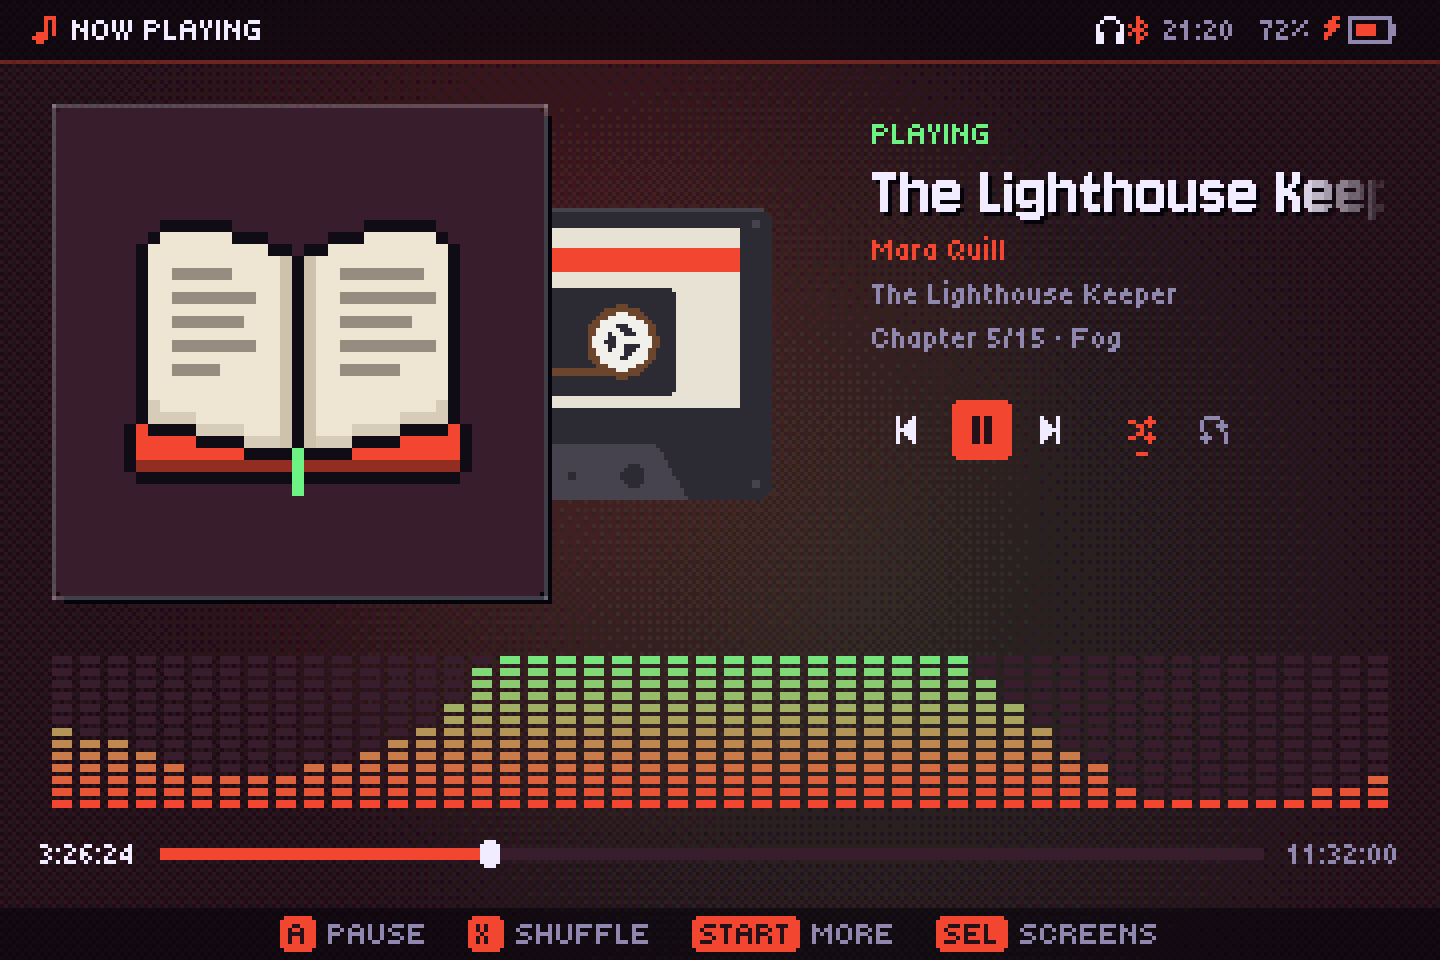
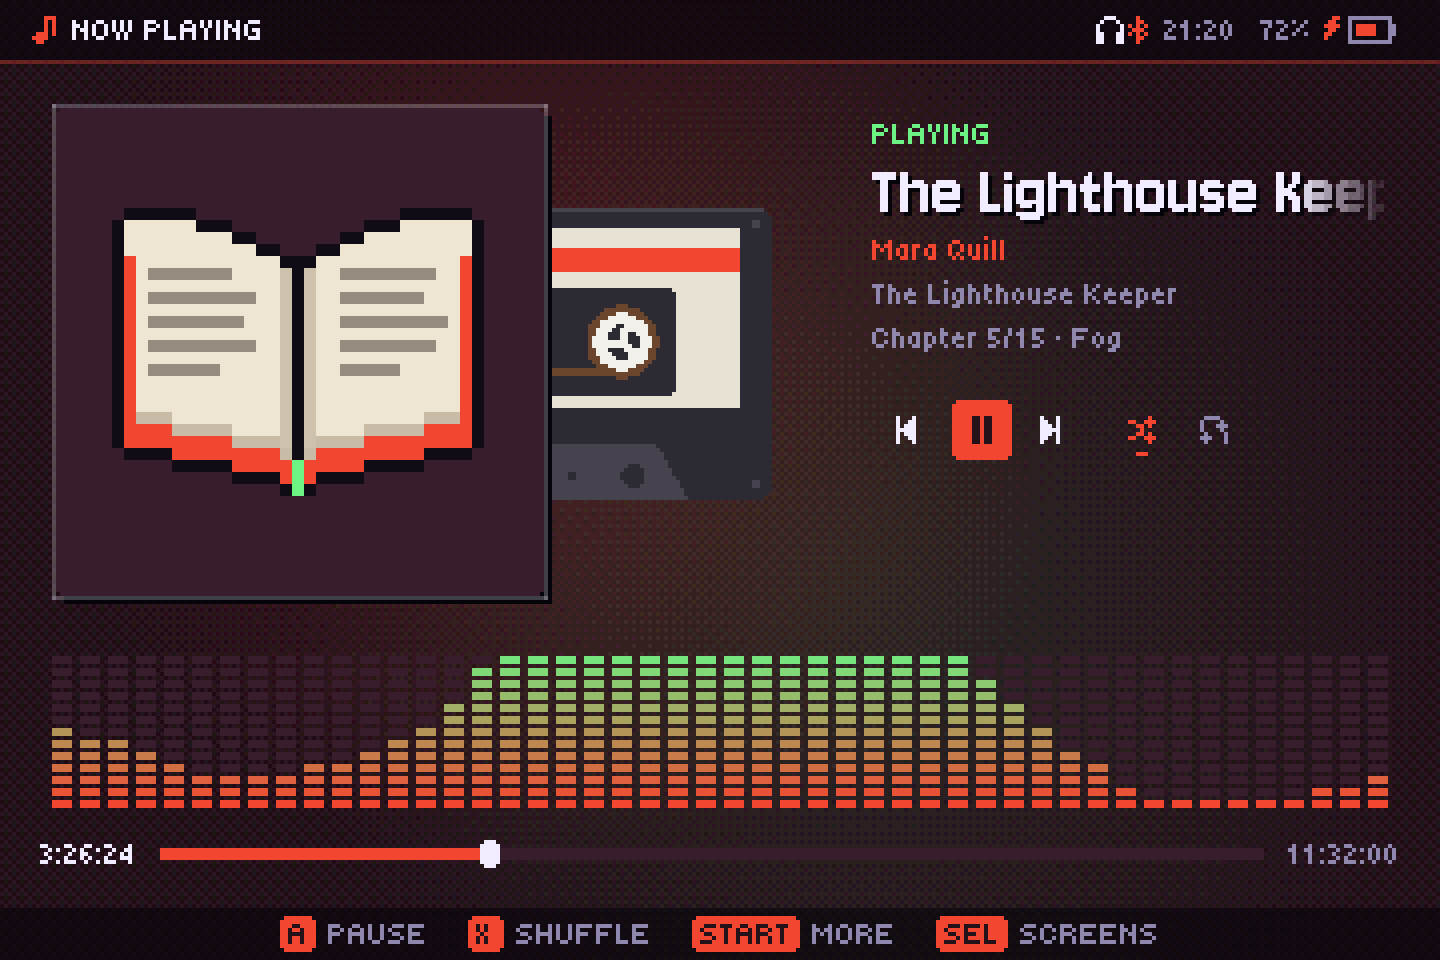
Book sprite: the cover is one continuous band that wraps the pages and follows their curve; drawn at ×3

Changed region(s): [[0.0625, 0.2188, 0.3438, 0.5312], [0.1562, 0.25, 0.25, 0.2812], [0.4062, 0.3438, 0.4375, 0.375]]

diff --git a/internal/ui/bookart.go b/internal/ui/bookart.go
@@ -90,34 +90,35 @@ func drawCassette(dst *ebiten.Image, cx, cy, r int, angle, progress float64, th 
 }
 
 // bookSprite es el libro abierto de los audiolibros sin portada, dibujado a
-// mano píxel a píxel como los iconos (29×24): o contorno, P página, S y s
-// sombra de la página, T texto, C tapa (el color del disco), D su sombra y
-// R la cinta de marcapáginas (el segundo color).
+// mano píxel a píxel como los iconos (31×24): o contorno, P página, S su
+// sombra junto al lomo, s el canto de las hojas, T texto, C la tapa (el
+// color del disco), que asoma a los lados y por debajo siguiendo la curva de
+// las hojas, y R la cinta de marcapáginas (el segundo color).
 const bookSprite = `
-.............................
-...oooooo...........oooooo...
-..oPPPPPPooo.....oooPPPPPPo..
-.oPPPPPPPPPPoo.ooPPPPPPPPPPo.
-.oPPPPPPPPPPPSoSPPPPPPPPPPPo.
-.oPPTTTTTPPPPSoSPPTTTTTTTPPo.
-.oPPPPPPPPPPPSoSPPPPPPPPPPPo.
-.oPPTTTTTTTPPSoSPPTTTTTTTTPo.
-.oPPPPPPPPPPPSoSPPPPPPPPPPPo.
-.oPPTTTTTTPPPSoSPPTTTTTTPPPo.
-.oPPPPPPPPPPPSoSPPPPPPPPPPPo.
-.oPPTTTTTTTPPSoSPPTTTTTTTTPo.
-.oPPPPPPPPPPPSoSPPPPPPPPPPPo.
-.oPPTTTTPPPPPSoSPPTTTTTPPPPo.
-.oPPPPPPPPPPPSoSPPPPPPPPPPPo.
-.oPPPPPPPPPPPSoSPPPPPPPPPPPo.
-.osPPPPPPPPPPSoSPPPPPPPPPPso.
-.ossssPPPPPPPSoSPPPPPPPsssso.
-oCoooossssPPPSoSPPPssssooooCo
-oCCCCCoooosssSoSsssooooCCCCCo
-oCCCCCCCCCooooRooooCCCCCCCCCo
-oDDDDDDDDDDDDDRDDDDDDDDDDDDDo
-.oooooooooooooRooooooooooooo.
-..............R..............`
+.oooooo.................oooooo.
+oPPPPPPooo...........oooPPPPPPo
+oPPPPPPPPPoo.......ooPPPPPPPPPo
+oPPPPPPPPPPPoo...ooPPPPPPPPPPPo
+oCPPPPPPPPPPPPoooPPPPPPPPPPPPCo
+oCPTTTTTTTPPPPSoSPPTTTTTTTTPPCo
+oCPPPPPPPPPPPPSoSPPPPPPPPPPPPCo
+oCPTTTTTTTTTPPSoSPPTTTTTTTPPPCo
+oCPPPPPPPPPPPPSoSPPPPPPPPPPPPCo
+oCPTTTTTTTTPPPSoSPPTTTTTTTTTPCo
+oCPPPPPPPPPPPPSoSPPPPPPPPPPPPCo
+oCPTTTTTTTTTPPSoSPPTTTTTTTTPPCo
+oCPPPPPPPPPPPPSoSPPPPPPPPPPPPCo
+oCPTTTTTTPPPPPSoSPPTTTTTPPPPPCo
+oCPPPPPPPPPPPPSoSPPPPPPPPPPPPCo
+oCPPPPPPPPPPPPSoSPPPPPPPPPPPPCo
+oCPPPPPPPPPPPPSoSPPPPPPPPPPPPCo
+oCsssPPPPPPPPPSoSPPPPPPPPPsssCo
+oCCCCsssssPPPPSoSPPPPsssssCCCCo
+oCCCCCCCCCssssSoSssssCCCCCCCCCo
+.ooooCCCCCCCCCsosCCCCCCCCCoooo.
+.....oooooCCCCCRCCCCCooooo.....
+..........ooooCRCoooo..........
+..............oRo..............`
 
 // bookSprites son los libros ya pintados, por tema (cambia con el disco).
 var bookSprites = map[Theme]*ebiten.Image{}
@@ -132,10 +133,9 @@ func bookImage(th Theme) *ebiten.Image {
 		'o': mix(th.Shadow, color.RGBA{0x1a, 0x14, 0x22, 0xff}, 0.5),
 		'P': {0xee, 0xe6, 0xd2, 0xff},
 		'S': {0xce, 0xc2, 0xac, 0xff},
-		's': {0xd6, 0xcc, 0xb8, 0xff},
+		's': {0xc8, 0xbc, 0xa6, 0xff},
 		'T': {0x96, 0x8c, 0x80, 0xff},
 		'C': th.Accent,
-		'D': mix(th.Accent, th.Shadow, 0.4),
 		'R': th.Accent2,
 	}
 	img := image.NewRGBA(image.Rect(0, 0, len(rows[0]), len(rows)))
@@ -164,7 +164,7 @@ func drawBookArt(dst *ebiten.Image, x, y, size int, th Theme) {
 	panel(dst, x, y, size, size, th.Bg2)
 	img := bookImage(th)
 	w, h := img.Bounds().Dx(), img.Bounds().Dy()
-	k := max(1, size*82/100/w)
+	k := max(1, size*96/100/w)
 	op := &ebiten.DrawImageOptions{}
 	op.GeoM.Scale(float64(k), float64(k))
 	op.GeoM.Translate(float64(x+(size-w*k)/2), float64(y+(size-h*k)/2))
